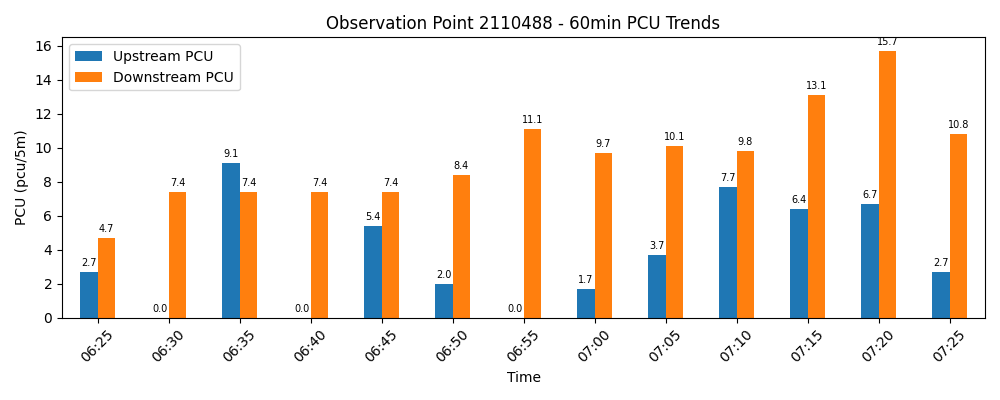
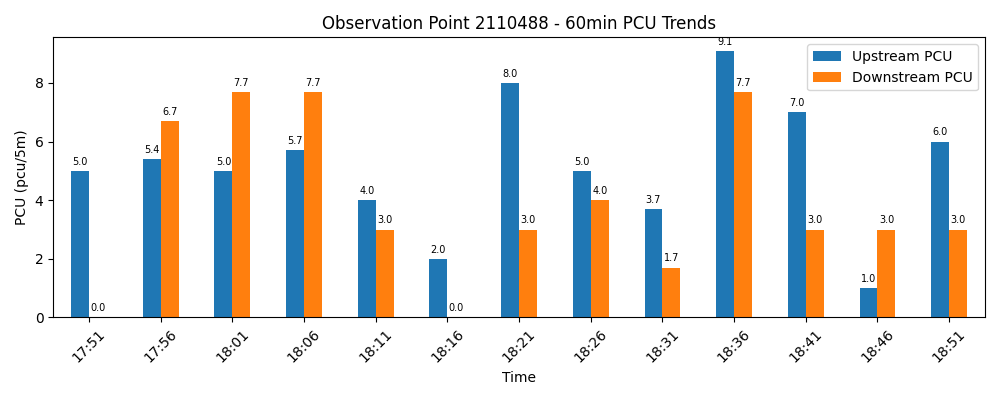
deploy: 8c3de50eabedc6086d7a5aa5160bcc74538cf98d

diff --git a/index.html b/index.html
@@ -17,7 +17,7 @@
             <meta name="viewport" content="width=device-width,
                 initial-scale=1.0, maximum-scale=1.0, user-scalable=no" />
             <style>
-                #map_f6130fb46c67f80ef725b631c4abdf31 {
+                #map_74198086d156a4793dd45357167ed016 {
                     position: relative;
                     width: 100.0%;
                     height: 100.0%;
@@ -54,14 +54,14 @@
 <body>
     
     
-            <div class="folium-map" id="map_f6130fb46c67f80ef725b631c4abdf31" ></div>
+            <div class="folium-map" id="map_74198086d156a4793dd45357167ed016" ></div>
         
 </body>
 <script>
     
     
-            var map_f6130fb46c67f80ef725b631c4abdf31 = L.map(
-                "map_f6130fb46c67f80ef725b631c4abdf31",
+            var map_74198086d156a4793dd45357167ed016 = L.map(
+                "map_74198086d156a4793dd45357167ed016",
                 {
                     center: [38.518722765, 139.9859583],
                     crs: L.CRS.EPSG3857,
@@ -78,7 +78,7 @@
 
         
     
-            var tile_layer_4162dc28345354bb6e1cbfb8b5e8eddf = L.tileLayer(
+            var tile_layer_738f3cae0ee67971296e038d6bf35168 = L.tileLayer(
                 "https://tile.openstreetmap.org/{z}/{x}/{y}.png",
                 {
   "minZoom": 0,
@@ -95,17 +95,17 @@
             );
         
     
-            tile_layer_4162dc28345354bb6e1cbfb8b5e8eddf.addTo(map_f6130fb46c67f80ef725b631c4abdf31);
+            tile_layer_738f3cae0ee67971296e038d6bf35168.addTo(map_74198086d156a4793dd45357167ed016);
         
     
-            var marker_2753ec656506af8e55f75dc6e05dc75a = L.marker(
+            var marker_c6d9da5dde5123db2312a98d7ee7e80d = L.marker(
                 [38.58079849, 139.9398136],
                 {
 }
-            ).addTo(map_f6130fb46c67f80ef725b631c4abdf31);
+            ).addTo(map_74198086d156a4793dd45357167ed016);
         
     
-            var icon_85290fbb1d0132856fa44e0fa38423cd = L.AwesomeMarkers.icon(
+            var icon_59daf82385c1d5f97fdb2195ef87bf6d = L.AwesomeMarkers.icon(
                 {
   "markerColor": "blue",
   "iconColor": "white",
@@ -116,26 +116,26 @@
             );
         
     
-        var popup_eec7ff74f983d39ed54b8496704f09d4 = L.popup({
+        var popup_343bd7a35188fcf1861b4e044da9a560 = L.popup({
   "maxWidth": 450,
 });
 
         
             
-                var html_f54a5b92ab07ff0acd723b3bd55382a3 = $(`<div id="html_f54a5b92ab07ff0acd723b3bd55382a3" style="width: 100.0%; height: 100.0%;">         <h4>地点コード: 2110491</h4>         <p>更新時刻: 2026-07-02 07:25</p>         <p><b>上り:</b> 17.4 pcu/5m<br><b>下り:</b> 11.1 pcu/5m</p>         <img src="charts/chart_2110491.png" width="400">         </div>`)[0];
-                popup_eec7ff74f983d39ed54b8496704f09d4.setContent(html_f54a5b92ab07ff0acd723b3bd55382a3);
+                var html_a71f95289fa475a9d51c0c54fe2a4003 = $(`<div id="html_a71f95289fa475a9d51c0c54fe2a4003" style="width: 100.0%; height: 100.0%;">         <h4>地点コード: 2110491</h4>         <p>更新時刻: 2026-07-02 18:51</p>         <p><b>上り:</b> 5.7 pcu/5m<br><b>下り:</b> 3.7 pcu/5m</p>         <img src="charts/chart_2110491.png" width="400">         </div>`)[0];
+                popup_343bd7a35188fcf1861b4e044da9a560.setContent(html_a71f95289fa475a9d51c0c54fe2a4003);
             
         
 
-        marker_2753ec656506af8e55f75dc6e05dc75a.bindPopup(popup_eec7ff74f983d39ed54b8496704f09d4)
+        marker_c6d9da5dde5123db2312a98d7ee7e80d.bindPopup(popup_343bd7a35188fcf1861b4e044da9a560)
         ;
 
         
     
     
-            marker_2753ec656506af8e55f75dc6e05dc75a.bindTooltip(
+            marker_c6d9da5dde5123db2312a98d7ee7e80d.bindTooltip(
                 `<div>
-                     地点 2110491 (上り:17.4 / 下り:11.1)
+                     地点 2110491 (上り:5.7 / 下り:3.7)
                  </div>`,
                 {
   "sticky": true,
@@ -143,17 +143,17 @@
             );
         
     
-                marker_2753ec656506af8e55f75dc6e05dc75a.setIcon(icon_85290fbb1d0132856fa44e0fa38423cd);
+                marker_c6d9da5dde5123db2312a98d7ee7e80d.setIcon(icon_59daf82385c1d5f97fdb2195ef87bf6d);
             
     
-            var marker_9c60423ac4f249fe510beda77e4240ba = L.marker(
+            var marker_f5462051821a90d788391e18aec8f84e = L.marker(
                 [38.45664704, 140.032103],
                 {
 }
-            ).addTo(map_f6130fb46c67f80ef725b631c4abdf31);
+            ).addTo(map_74198086d156a4793dd45357167ed016);
         
     
-            var icon_e0042478389eb27d9da1f4fef3eba475 = L.AwesomeMarkers.icon(
+            var icon_46329fc18df12344ec2fe59d36e51210 = L.AwesomeMarkers.icon(
                 {
   "markerColor": "blue",
   "iconColor": "white",
@@ -164,26 +164,26 @@
             );
         
     
-        var popup_14644583b808986acdf1ca909a42332d = L.popup({
+        var popup_3aa3c2db43c39a2339534b90cba36057 = L.popup({
   "maxWidth": 450,
 });
 
         
             
-                var html_35085678549f1800c9a14ab8cb6325c9 = $(`<div id="html_35085678549f1800c9a14ab8cb6325c9" style="width: 100.0%; height: 100.0%;">         <h4>地点コード: 2110488</h4>         <p>更新時刻: 2026-07-02 07:25</p>         <p><b>上り:</b> 2.7 pcu/5m<br><b>下り:</b> 10.8 pcu/5m</p>         <img src="charts/chart_2110488.png" width="400">         </div>`)[0];
-                popup_14644583b808986acdf1ca909a42332d.setContent(html_35085678549f1800c9a14ab8cb6325c9);
+                var html_0e203183f2981bcacc6531a7a45be7a8 = $(`<div id="html_0e203183f2981bcacc6531a7a45be7a8" style="width: 100.0%; height: 100.0%;">         <h4>地点コード: 2110488</h4>         <p>更新時刻: 2026-07-02 18:51</p>         <p><b>上り:</b> 6.0 pcu/5m<br><b>下り:</b> 3.0 pcu/5m</p>         <img src="charts/chart_2110488.png" width="400">         </div>`)[0];
+                popup_3aa3c2db43c39a2339534b90cba36057.setContent(html_0e203183f2981bcacc6531a7a45be7a8);
             
         
 
-        marker_9c60423ac4f249fe510beda77e4240ba.bindPopup(popup_14644583b808986acdf1ca909a42332d)
+        marker_f5462051821a90d788391e18aec8f84e.bindPopup(popup_3aa3c2db43c39a2339534b90cba36057)
         ;
 
         
     
     
-            marker_9c60423ac4f249fe510beda77e4240ba.bindTooltip(
+            marker_f5462051821a90d788391e18aec8f84e.bindTooltip(
                 `<div>
-                     地点 2110488 (上り:2.7 / 下り:10.8)
+                     地点 2110488 (上り:6.0 / 下り:3.0)
                  </div>`,
                 {
   "sticky": true,
@@ -191,7 +191,7 @@
             );
         
     
-                marker_9c60423ac4f249fe510beda77e4240ba.setIcon(icon_e0042478389eb27d9da1f4fef3eba475);
+                marker_f5462051821a90d788391e18aec8f84e.setIcon(icon_46329fc18df12344ec2fe59d36e51210);
             
 </script>
 </html>
